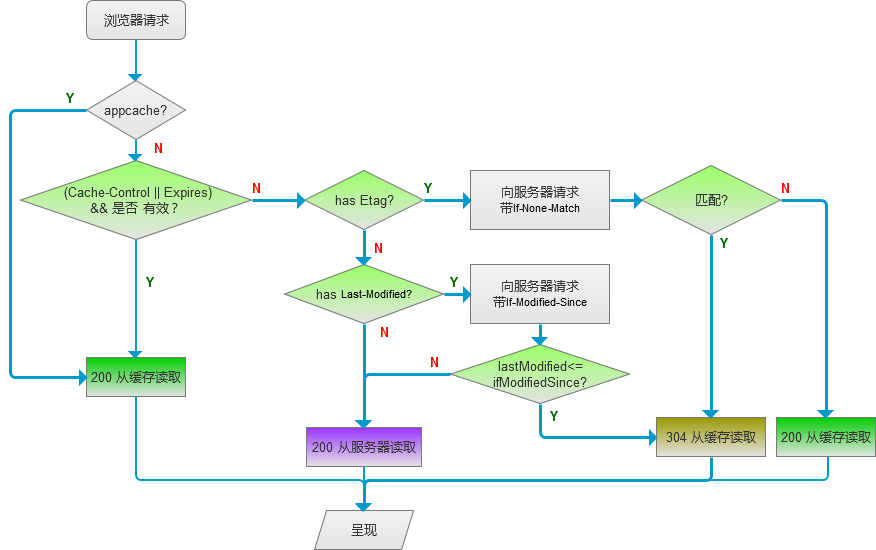
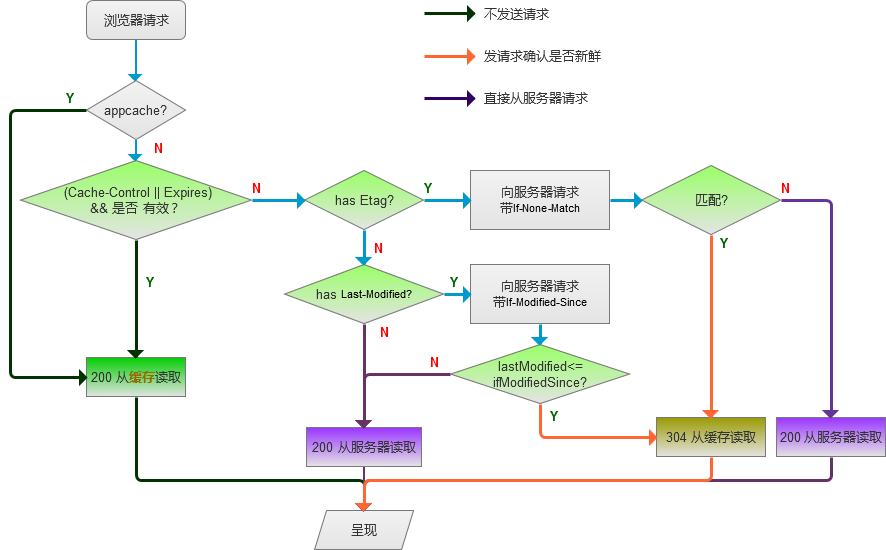
optimize flow

diff --git a/ReadMe.md b/ReadMe.md
@@ -1,4 +1,19 @@
 
+##TOC
+
+- 背景
+- 浏览器的总流程图
+- 一步一步说缓存 
+    - 朴素的静态服务器
+    - 设置缓存超时时间
+    - html5 Application Cache
+    - Last-Modified/If-Modified-Since
+    - Etag/If-None-Match
+        - 什么是Etag
+        - 为什么有了Last-Modified还要Etag
+        - Etag 的实现
+- 迷之浏览器
+- 总结
 
 ##背景
 
@@ -7,9 +22,7 @@
 浏览器缓存机制设置众多：html5 appcache，Expires，Cache-control，Last-Modified/If-Modified-Since，Etag/If-None-Match，max-age=0/no-cache...,
 之前对某一个或几个特性了解一二，但是混在一起再加上浏览器的行为，就迷（meng）糊(bi)了.
 
-本文从实现一个简单的静态服务器角度，一步一步说浏览器的缓存策略。
-
-
+下面从实现一个简单的静态服务器角度，一步一步说浏览器的缓存策略。
 
 
 ## 浏览器缓存总流程图
@@ -18,25 +31,22 @@
 对http请求来说，客户端缓存分三类：
 
 - 不发任何请求，直接从缓存中取数据，代表的特性有： Expires ，Cache-Control=<number！=0>和appcache
-- 发请求确认是否新鲜，再决定是否从缓存中取数据 :代表的特性有：Last-Modified/If-Modified-Since，Etag/If-None-Match
-- 没有缓存，代表的特性有：Cache-Control：max-age=0/no-cache，直接发送请求
-
+- 发请求确认是否新鲜，再决定是否返回304并从缓存中取数据 :代表的特性有：Last-Modified/If-Modified-Since，Etag/If-None-Match
+- 直接发送请求， 没有缓存，代表的特性有：Cache-Control：max-age=0/no-cache
 
 以下是最终的流程图：
 
-源码和流程图源文件在本人[github](https://github.com/etoah/BrowserCachePolicy)
+源码和流程图源文件在[github](https://github.com/etoah/BrowserCachePolicy)
 
 ![img](./assets/finalized.png)
 
 
-
-## 一步一步说缓存
+## 一步一步说缓存 
 
 ### 朴素的静态服务器
-浏览的缓存的依据是server http response header , 为了实现对http response 的完全控制，本文用nodejs实现了一个简单的static 服务器，得益于nodejs简单高效的api,
-不到60行就把一个可用的版本实现了：[源码](https://github.com/etoah/BrowserCachePolicy/step1)
-
-浏览器里输入：http://localhost:8888/index.html
+浏览的缓存的依据是server http response header , 为了实现对http response 的完全控制，用nodejs实现了一个简单的static 服务器，得益于nodejs简单高效的api,
+不到60行就把一个可用的版本实现了：[源码](https://github.com/etoah/BrowserCachePolicy/tree/step1) 
+克隆代码，分支切换到step1, 进入根目录，执行 `node app.js`,浏览器里输入：http://localhost:8888/index.html
 
 查看response header,返回正常，也没有用任何缓存。。服务器每次都要调用fs.readFile方法去读取硬盘上的文件的。当服务器的请求量一上涨，硬盘IO会吃不消的。 
 
@@ -52,7 +62,7 @@ Transfer-Encoding: chunked
 
 ![image](https://cloud.githubusercontent.com/assets/7630567/15781552/40d604d6-29d9-11e6-845c-71c0a522006d.png)
 
-###  设置超时时间
+###  设置缓存超时时间
 
 
 对于指定后缀文件和过期日期，为了保证可配置。建立一个config.js。
@@ -146,7 +156,7 @@ Accept-Language: zh-CN,zh;q=0.8
 Cache-Control与Expires的作用一致，都是指明当前资源的有效期，控制浏览器是否直接从浏览器缓存取数据还是重新发请求到服务器取数据。
 只不过Cache-Control的选择更多，设置更细致，如果同时设置的话，其优先级高于Expires。
 
-
+代码详细可查看[源码](https://github.com/etoah/BrowserCachePolicy/tree/step2) 
 
 ### html5 Application Cache
 
@@ -175,7 +185,7 @@ Cache-Control与Expires的作用一致，都是指明当前资源的有效期，
 
 ![img](./assets/norequestcache.png)
 
-本例子的源码为分支 step3
+本例子的源码为分支 step3：代码详细可查看[源码](https://github.com/etoah/BrowserCachePolicy/tree/step3) 
 
 ### Last-Modified/If-Modified-Since
 
@@ -214,19 +224,18 @@ exports.Expires = {
 
 同样我们清缓存,刷新两次就能看到效果如下:
 
-![img](./assets/Last-Modified_If-Modified-Since.jpg)
+![img](./assets/Last-Modified_If-Modified-Since.JPG)
 
 服务器请求确认了文件是否新鲜,直接返回header, 网络负载特别较小:
 
 ![img](./assets/304size.jpg)
 
-
 这时我们的缓存控制流程图如下:
 
-![img]("./assets/Last-Modified_If-Modified-Since_flow.png")
+![img](./assets/Last-Modified_If-Modified-Since_flow.png)
 
 
-本例子的源码为分支 step4
+本例子的源码为分支 step4：代码详细可查看[源码](https://github.com/etoah/BrowserCachePolicy/tree/step4) 
 
 ### Etag/If-None-Match
 
@@ -248,14 +257,12 @@ web服务器收到请求后发现有头If-None-Match 则与被请求资源的相
 
 #### Etag 的实现
 
-由上面的目的，很容易想到怎么实现，只要对文件内容哈希即可。
-哈希会用到node 中的Crypto模块 ，先引用`var crypto = require('crypto');`，并在响应时加上Etag:
-
-
-
 在node 的后端框架express 中引用的是npm包[etag](https://github.com/jshttp/etag),etag 支持根据传入的参数支持两种etag的方式：
 一种是文件状态（大小，修改时间），另一种是文件内容的哈希值。
 详情可相看[源码](https://github.com/jshttp/etag/blob/master/index.js)
+
+由上面的目的，也很容易想到怎么简单实现，这里我们对文件内容哈希得到Etag值。
+哈希会用到node 中的Crypto模块 ，先引用`var crypto = require('crypto');`，并在响应时加上Etag:
 
 ```javascript
 var hash = crypto.createHash('md5').update(file).digest('base64');
@@ -273,27 +280,40 @@ var hash = crypto.createHash('md5').update(file).digest('base64');
 为了消除 Last-Modified/If-Modified-Since的影响，测试时可以先注释此 header，这里写的是 strong validator，详细可查看[W3C  ETag](https://tools.ietf.org/html/rfc7232#page-9)
 第二次访问时，正常的返回304，并读取缓存
 
-![img]("./assets/etagmatch.jpg")
+![img](./assets/etagmatch.jpg)
 
 更改文件，etag发生不匹配，返回200
 
-![img]("./assets/etagnonematch.jpg")
+![img](./assets/etagnonematch.jpg)
 
 最终的流程图
 
 ![img](./assets/finalized.png)
+
+最终代码详细可查看[源码](https://github.com/etoah/BrowserCachePolicy/tree/master) 
 
 ## 其它
 
 还有一部份功能特性，由于支持度不广（部份浏览器不支持，或主流服务器不支持，如nginx, Appache）没有特别的介绍。
 
 
+### 迷之浏览器
+每个浏览器对用户行为(F5,Ctrl+F5,地址栏回车等)的处理都不一样,详细请查看[Clientside Cache Control](http://techblog.tilllate.com/2008/11/14/clientside-cache-control/)
+以下摘抄一段:
+>So I tried this for different browsers. Unfortunately it’s specified nowhere what a browser has to send in which situation.
+- Internet Explorer 6 and 7 do both send only cache refresh hints on ctrl+F5. On ctrl+F5 they both send the header field ‘Cache-Control’ set to ‘no-cache’.
+- Firefox 3 do send the header field ‘Cache-Control’ with the value ‘max-age=0′ if the user press f5. If you press ctrl+f5 Firefox sends the ‘Cache-Control’ with ‘no-cache’ (hey it do the same as IE!) and send also a field ‘Pragma’ which is also set to ‘no-cache’.
+- Firefox 2 does send the header field ‘Cache-Control’ with the value ‘max-age=0′ if the user press f5. ctrl+f5 does not work.
+- Opera/9.62 does send ‘Cache-Control’ with the value ‘max-age=0′ after f5 and ctrl+f5 does not work.
+- Safari 3.1.2 behaves like Opera above.
+- Chrome does something quite different: ‘Cache-Control’ is always set to ‘max-age=0′, no matter if you press enter, f5 or ctrl+f5. Except if you start Chrome and enter the url and press enter.
+
 
 ### 总结
 
 这只是一篇原理或是规则性的文章，但现实应用可能只用到了很少的一部份特性就能达到较好的效果：
 比如，我们只到在打包的时候用gulp生成md5戳或时间戳，过期时间设置为10年，更新版本时更新戳，缓存策略简单高效。
-配置时，也可能不是配置express，很可能配的是nginx ，关于配置的实战篇，下次更新。
+配置时，也可能不是配置express，很可能配的是nginx ，关于配置的实战篇，下次往篇更新。
  
 
 ### Reference
@@ -307,26 +327,6 @@ var hash = crypto.createHash('md5').update(file).digest('base64');
 
 
 
-
-
-
-
-
-### Browser Magic【迷之浏览器】
-
-So I tried this for different browsers. Unfortunately it’s specified nowhere what a browser has to send in which situation.
-
-- Internet Explorer 6 and 7 do both send only cache refresh hints on ctrl+F5. On ctrl+F5 they both send the header field ‘Cache-Control’ set to ‘no-cache’.
-
-- Firefox 3 do send the header field ‘Cache-Control’ with the value ‘max-age=0′ if the user press f5. If you press ctrl+f5 Firefox sends the ‘Cache-Control’ with ‘no-cache’ (hey it do the same as IE!) and send also a field ‘Pragma’ which is also set to ‘no-cache’.
-
-- Firefox 2 does send the header field ‘Cache-Control’ with the value ‘max-age=0′ if the user press f5. ctrl+f5 does not work.
-
-- Opera/9.62 does send ‘Cache-Control’ with the value ‘max-age=0′ after f5 and ctrl+f5 does not work.
-
-- Safari 3.1.2 behaves like Opera above.
-
-- Chrome does something quite different: ‘Cache-Control’ is always set to ‘max-age=0′, no matter if you press enter, f5 or ctrl+f5. Except if you start Chrome and enter the url and press enter.
 
 
 
